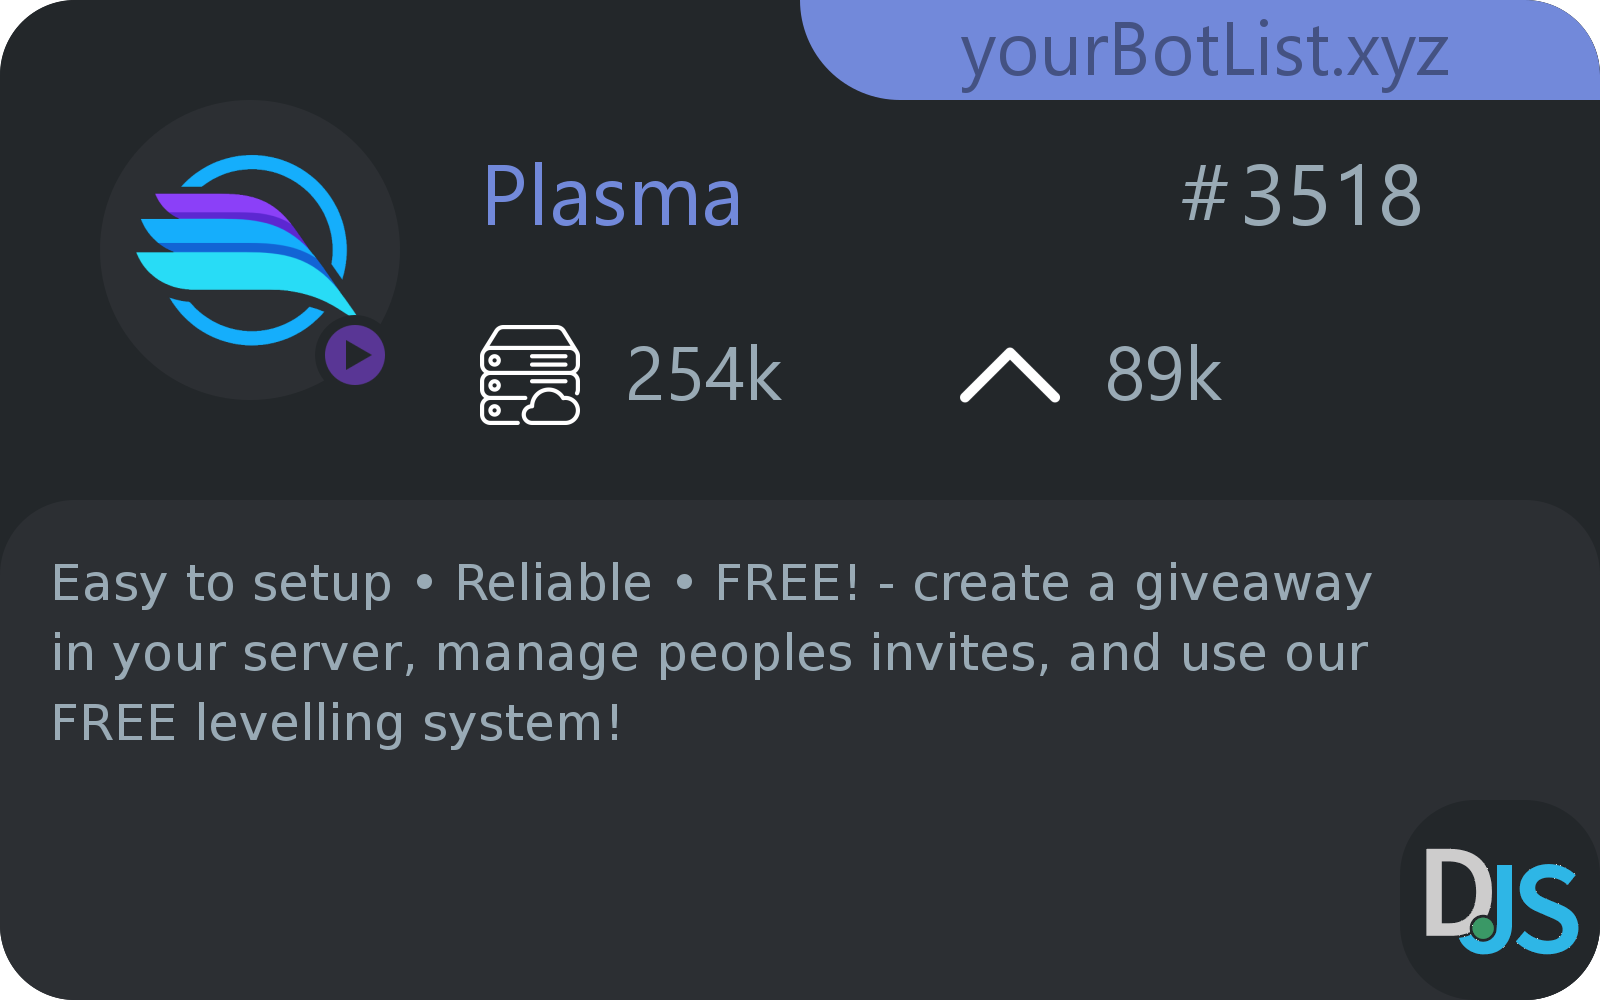
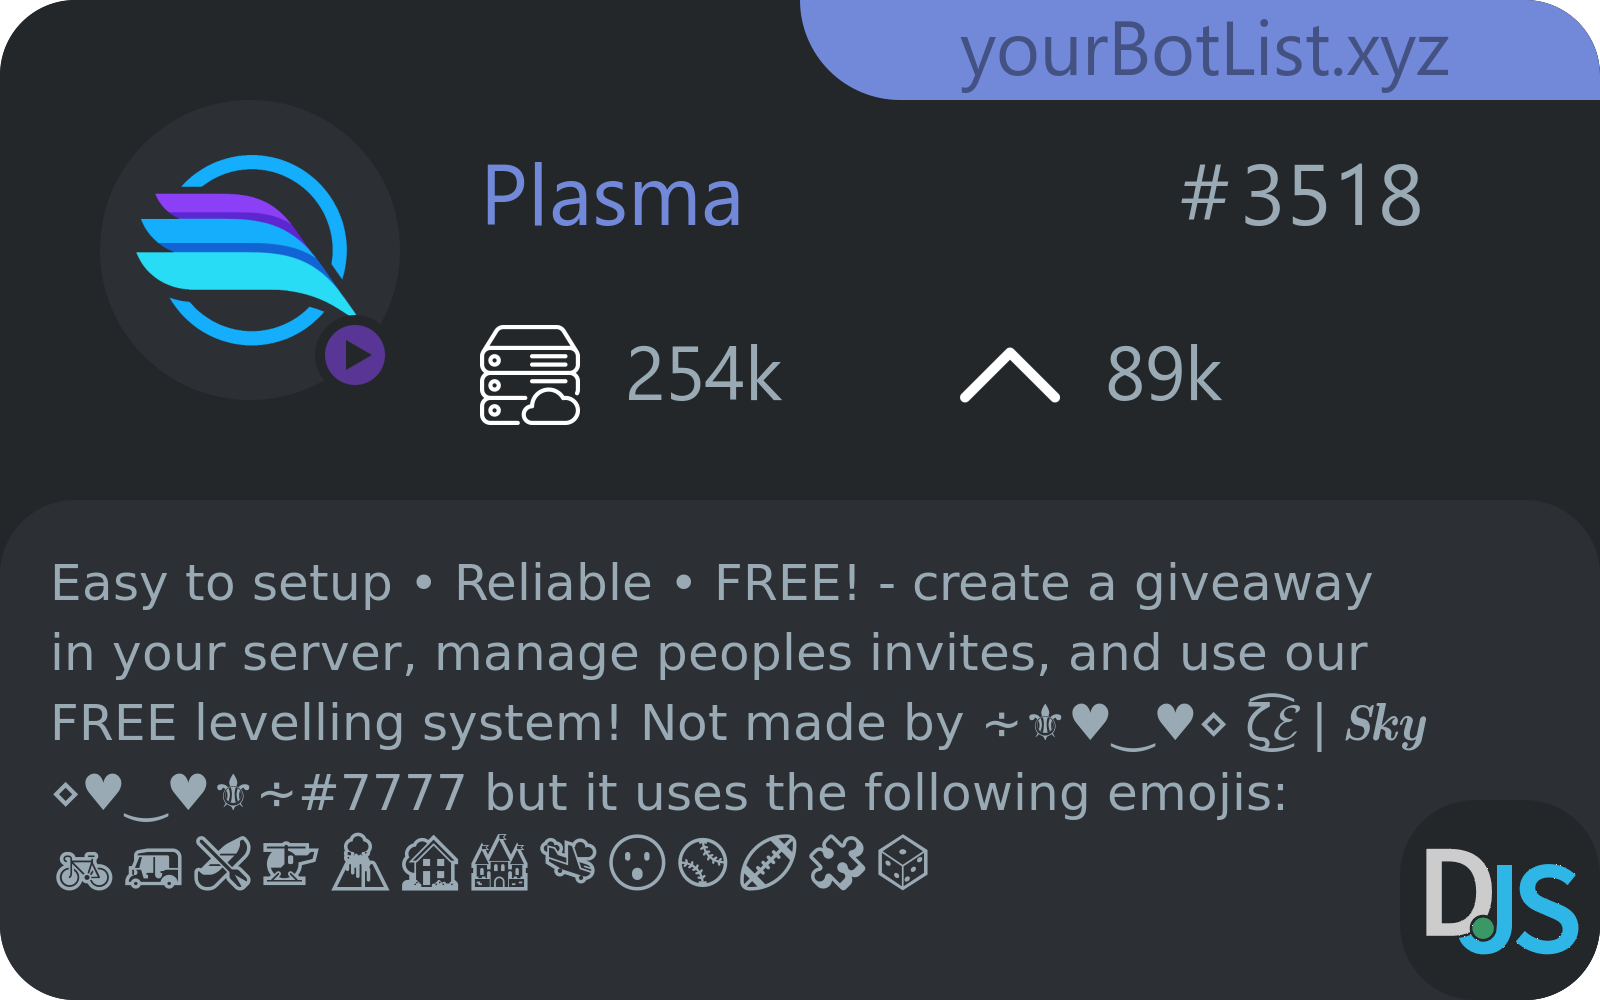
Add more stress to the image generation

diff --git a/testing/index.js b/testing/index.js
@@ -12,7 +12,7 @@ function path(...s) {
     name: 'Plasma',
     tag: '3518',
     description:
-      'Easy to setup • Reliable • FREE! - create a giveaway in your server, manage peoples invites, and use our FREE levelling system!',
+      'Easy to setup • Reliable • FREE! - create a giveaway in your server, manage peoples invites, and use our FREE levelling system! Not made by ∻⚜♥‿♥⋄ ζ͜͡𝓔 | 𝑺𝒌𝒚 ⋄♥‿♥⚜∻#7777 but it uses the following emojis: 🚲🛺🛶🚁🌋🏡🏰🛬😮⚾🏈🧩🎲',
     status: 'streaming',
     guilds: 254434,
     votes: 89123,
